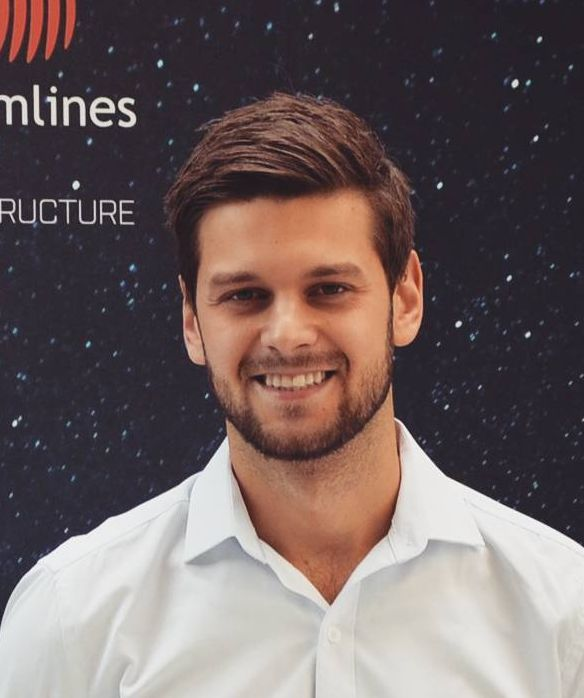
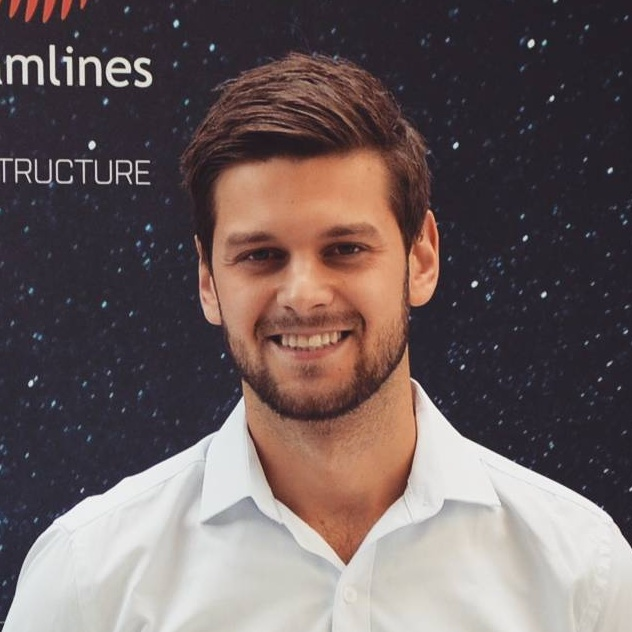
changed url to petrvalenta.eu

diff --git a/assets/css/main.scss b/assets/css/main.scss
@@ -6,3 +6,10 @@
 
 @import "minimal-mistakes/skins/{{ site.minimal_mistakes_skin | default: 'default' }}"; // skin
 @import "minimal-mistakes"; // main partials
+
+// custom
+.dateline {
+    float: right;
+    font-size: 9pt;
+    font-style: italic;
+}

diff --git a/_sass/minimal-mistakes/_sidebar.scss b/_sass/minimal-mistakes/_sidebar.scss
@@ -127,7 +127,7 @@
   }
 
   img {
-    max-width: 110px;
+    max-width: 150px;
     border-radius: 50%;
 
     @include breakpoint($large) {
